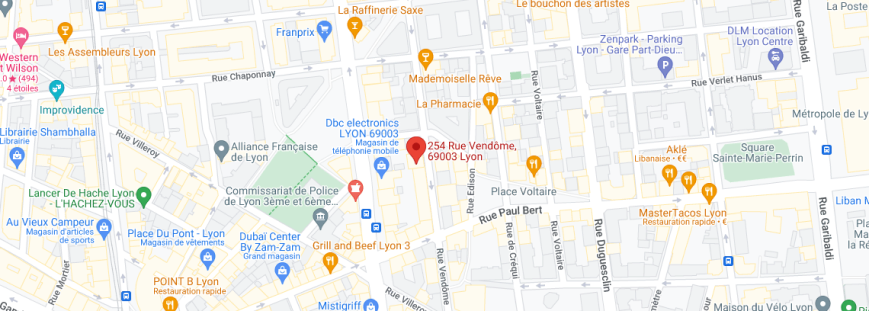
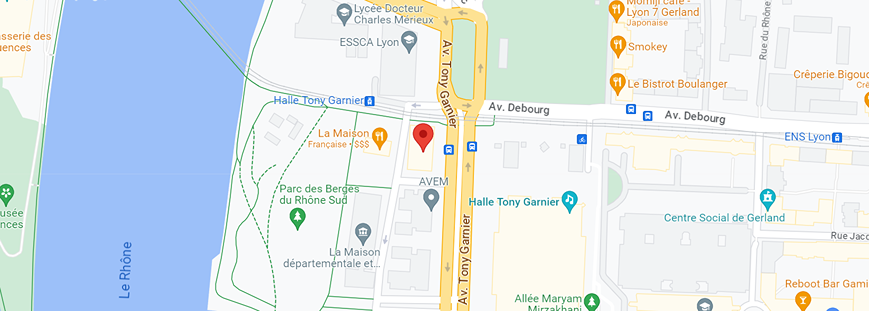
New article components / minor fixes (span -> div)

diff --git a/src/routes/acompagnement/index.tsx b/src/routes/acompagnement/index.tsx
@@ -4,6 +4,7 @@ import { type DocumentHead } from "@builder.io/qwik-city";
 import { ButtonTopPage } from "~/components/ui/buttons/ButtonTopPage";
 import { Banner } from "~/components/header/Banner";
 import { Article } from "~/components/Article";
+import { NewArticle } from "~/components/articles/NewArticle";
 import { Button } from "~/components/ui/buttons/Button";
 
 export default component$(() => {
@@ -12,127 +13,101 @@ export default component$(() => {
       <Banner
         content="  Vous rencontrez des défis en matière d'accessibilité numérique et souhaitez transformer ces enjeux en opportunités pour votre organisation ? Vous êtes au bon endroit ! Chez Inolib, nous mettons l'accent sur VOS besoins et VOS objectifs pour vous offrir un accompagnement personnalisé et dynamique."
         imageSrc="\images\temoignage-homme-header.png"
-        imageStyle="md:w-3/5 md:max-w-2xl"
+        imageStyle="md:w-3/5 md:max-w-xl"
         title="Acompagnement"
       />
 
-      <section class="text-[#0B3168]">
-        <Article
-          stylesTitle="md:mb-[2rem]"
-          stylesImage=" md:mr-[4rem] shadow mt-[8rem]"
-          stylesArticleGaucheFlex="mb-8 shadow bg-slate-100 text-[#0B3168] rounded md:flex-row "
-          imageSrc="/images/photoArticle.png"
-          title="Notre stratégie centrée sur vous :"
+      <section class="text-[#0B3168]  md:mx-[8rem] md:py-8">
+        <NewArticle
+          title="Notre stratégie centrée sur vous:"
+          styleTitle="mx-5 my-7 text-3xl md:mb-[1rem] md:mb-[2rem] font-semibold md:m-0"
         >
-          <span q:slot="check-box" class="flex flex-col md:ml-[5rem] md:mt-0">
-            <ul class="flex flex-col md:mt-20 md:justify-around ">
-              <li class="mb-[2.5rem] flex items-center">
-                <p class="ml-4">
-                  1⃣ Écoute et compréhension de vos besoins : Nous commençons par évaluer l'accessibilité de vos
-                  supports numériques pour identifier vos points forts et axes d'amélioration.
-                </p>
-              </li>
-              <li class="mb-[2.5rem] flex items-center">
-                <p class="ml-4">
-                  2⃣ Élaboration d'une stratégie d'accessibilité sur mesure : En adéquation avec vos objectifs, vos
-                  ressources internes, votre budget et les contraintes réglementaires, nous développons ensemble un plan
-                  d'action personnalisé.
-                </p>
-              </li>
-              <li class="mb-[2.5rem] flex items-center">
-                <p class="ml-4">
-                  3⃣ Formation et sensibilisation de vos équipes : Nous offrons des sessions de formation sur les bonnes
-                  pratiques et outils d'accessibilité numérique pour que vos équipes soient impliquées et autonomes.
-                </p>
-              </li>
-              <li class="mb-[2.5rem] flex items-center">
-                <p class="ml-4">
-                  4⃣ Mise en conformité et suivi des progrès : Nous vous accompagnons dans la mise en œuvre des
-                  recommandations, assurons un suivi régulier et garantissons que votre site web ou application respecte
-                  les normes d'accessibilité en vigueur.
-                </p>
-              </li>
-              <li class="flex items-center">
-                <p class="ml-4">
-                  5⃣ Support continu pour une accessibilité numérique durable : Nos experts restent à votre disposition
-                  pour vous assister et vous conseiller dans le maintien d'une accessibilité numérique optimale et
-                  durable.
-                </p>
-              </li>
-            </ul>
-          </span>
-        </Article>
+          <div q:slot="slot1" class="md:grid grid-cols-3 grid-rows-3 gap-y-5 gap-x-9 bg-slate-100 md:p-12 md:text-lg mb-6">
+            <img src="/images/dev.jpg" alt="" class="col-start-2 row-start-1 row-span-2 col-span-2 scale-75 rounded-lg" />
+            <p class="col-start-1 row-start-1">
+              🔹Écoute et compréhension de vos besoins : Nous commençons par évaluer l'accessibilité de vos supports
+               numériques pour identifier vos points forts et axes d'amélioration.
+            </p>
+            <p class="col-start-1 row-start-2">
+              🔹 Élaboration d'une stratégie d'accessibilité sur mesure : En adéquation avec vos objectifs,
+               vos ressources internes, votre budget et les contraintes réglementaires, nous développons
+              ensemble un plan d'action personnalisé.
+            </p>
+            <p class="col-start-1 row-start-3">
+              🔹 Formation et sensibilisation de vos équipes : Nous offrons des sessions de formation sur les bonnes
+               pratiques et outils d'accessibilité numérique pour que vos équipes soient impliquées et autonomes.
+            </p>
+            <p class="col-start-2 row-start-3">
+              🔹 Mise en conformité et suivi des progrès : Nous vous accompagnons dans la mise en œuvre des recommandations,
+               assurons un suivi régulier et garantissons que votre site web ou application respecte les normes d'accessibilité
+               en vigueur.
+            </p>
+            <p class="col-start-3 row-start-3">
+              🔹 Support continu pour une accessibilité numérique durable : Nos experts restent à votre disposition pour vous
+               assister et vous conseiller dans le maintien d'une accessibilité numérique optimale et durable.
+            </p>
+          </div>
+        </NewArticle>
 
-        <Article
-          stylesTitle="md:mb-[2rem]"
-          stylesImage=" ml-[4rem] shadow mt-[8rem]"
-          stylesArticleGaucheFlex="mb-8 -py-[-10rem] shadow bg-slate-100 text-[#0B3168] rounded md:flex-row-reverse "
-          imageSrc="/images/home4.png"
+        <NewArticle
           title="Nos services adaptés à votre réalité :"
+          styleTitle="mx-5 my-7 text-3xl md:mb-[1rem] md:mb-[2rem] font-semibold md:m-0"
         >
-          <span q:slot="check-box" class="mt-5 flex flex-col md:ml-[5rem] md:mt-0">
-            <ul class="flex flex-col md:mt-20 md:justify-around ">
-              <li class="mb-[2.5rem] flex items-center">
-                <p class="ml-4">
-                  🔹 Accompagnement stratégique : Sensibilisation aux enjeux de l'accessibilité, définition de votre
+          <div q:slot="slot1" class="md:grid grid-cols-3 grid-rows-3 gap-y-5 gap-x-9 bg-slate-100 md:p-12 md:text-lg mb-6">
+            <img src="/images/dev-1.jpg" alt="" class="col-start-1 row-start-1 row-span-2 col-span-2 scale-75 rounded-lg" />
+            <p class="col-start-3 row-start-1">
+              🔹 Accompagnement stratégique : Sensibilisation aux enjeux de l'accessibilité, définition de votre
                   politique d'accessibilité et analyse des cahiers des charges pour évaluer la prise en compte des
                   critères de l'accessibilité.
-                </p>
-              </li>
-              <li class="mb-[2.5rem] flex items-center">
-                <p class="ml-4">
-                  🔹 Accompagnement en mode projet : Clarification des besoins, détermination du périmètre de
+            </p>
+            <p class="col-start-3 row-start-2">
+            🔹 Accompagnement en mode projet : Clarification des besoins, détermination du périmètre de
                   l'accompagnement, aide à la rédaction des spécifications techniques et sélection des technologies
                   adaptées.
-                </p>
-              </li>
-              <li class="mb-[2.5rem] flex items-center">
-                <p class="ml-4">
-                  🔹 Audit et recommandations : Audit des storyboards, maquettes graphiques (UI/UX), gabarits statiques
+            </p>
+            <p class="col-start-3 row-start-3">
+            🔹 Audit et recommandations : Audit des storyboards, maquettes graphiques (UI/UX), gabarits statiques
                   (HTML, CSS, Javascript), support technique, rédaction de la déclaration d'accessibilité et conseils
                   pour la rédaction du schéma pluriannuel d'accessibilité obligatoire.
-                </p>
-              </li>
-              <li class="mb-[2.5rem] flex items-center">
-                <p class="ml-4">
-                  🔹 Suivi et maintien de l'accessibilité : Contrôles réguliers, corrections techniques, graphiques et
+            </p>
+            <p class="col-start-2 row-start-3">
+            🔹 Suivi et maintien de l'accessibilité : Contrôles réguliers, corrections techniques, graphiques et
                   éditoriales en collaboration avec vos équipes techniques.
-                </p>
-              </li>
-              <li class="flex items-center">
-                <p class="ml-4">
-                  🔹 Formules d'accompagnement : Forfait temps pour les modifications nécessaires ou accompagnement au
+            </p>
+            <p class="col-start-1 row-start-3">
+            🔹 Formules d'accompagnement : Forfait temps pour les modifications nécessaires ou accompagnement au
                   temps passé pour plus de flexibilité et d'adaptabilité dans votre projet d'accessibilité.
-                </p>
-              </li>
-            </ul>
-          </span>
-        </Article>
-        <Article
-          stylesContent="leading-7  mt-[2rem] mr-[5rem]"
-          stylesImage="shadow"
-          stylesTitle="md:mb-[5rem]"
+            </p>
+          </div>
+        </NewArticle>
+
+        <NewArticle
           title="Passez à l'action et boostez votre accessibilité numérique :"
           content="Cliquez ici pour profiter d'une première consultation offerte et discuter de vos besoins en accessibilité numérique avec l'un de nos experts (hyperlien page contact). Ne manquez pas cette occasion de vous démarquer sur le marché et d'élargir votre audience.
           Ensemble, nous transformerons vos défis en matière d'accessibilité numérique en opportunités de croissance et de développement pour votre organisation. Contactez-nous dès aujourd'hui (hyperlien page de contact) et découvrez comment Inolib peut vous aider à atteindre vos objectifs stratégiques et renforcer votre gestion de projet en matière d'accessibilité "
+          styleTitle="mx-5 my-7 text-3xl md:mb-[1rem] font-semibold md:m-0 md:mb-[5rem]"
+          styleArticle="md:flex-row flex flex-col mb-12"
+          styleArticleContent="mx-5 md:mx-0"
+          styleContent="leading-7 mr-[5rem] mb-14 w-full text-justify text-lg md:mb-0 md:px-4 md:pr-10 md:pl-0 md:text-left md:w-[45rem]"
+          styleImage="shadow flex flex-col sm:justify-center md:w-[35rem] mb-14 rounded-md"
           imageSrc="/images/homme-fauteuil.png"
-          typoImgQuote="bold"
-          stylesArticleGaucheFlex="md:flex-row md:-py-[-10rem]"
-        ></Article>
+        >
+        </NewArticle>
+
         <p class={`mx-5 md:mx-[20rem] leading-7`}>
           🔍 Prêt à aller plus loin ? Explorez nos services d'audit en <strong>accessibilité</strong> numérique et nos
           solutions de développement pour sites web, applications mobiles et logiciels sur-mesure (hyperliens vers les
           pages correspondantes) pour maximiser votre impact et votre performance en ligne. Faites de l'accessibilité
           numérique une priorité et un atout pour votre entreprise avec Inolib.
         </p>
-        <span class="flex justify-center mt-8 mb-2 md:mb-0">
+        <div class="flex justify-center mt-8 mb-2 md:mb-0">
           <Button
             href="/contact"
             color="blue"
             label="Demander un devis"
             styles="mt-[2rem] transition ease-in-out delay-150 hover:-translate-y-1  hover:scale-110 duration-300"
           />
-        </span>
+        </div>
 
         <div class="my-10 flex w-full justify-center">
           <ButtonTopPage />

diff --git a/src/components/articles/NewArticle.tsx b/src/components/articles/NewArticle.tsx
@@ -1,0 +1,59 @@
+import { component$, Slot } from "@builder.io/qwik";
+
+type NewArticleProps = {
+  style?: string;
+  styleTitle?: string;
+  styleArticle?: string;
+  styleArticleContent?: string;
+  styleContent?: string;
+  styleImage?: string;
+  styleImageArticle?: string;
+  styleImageText?: string;
+  styleImageQuote?: string;
+  title: string;
+  content: string;
+  imageSrc?: string;
+};
+
+export const NewArticle = component$((props: NewArticleProps) => {
+  const style = props.style !== undefined ? props.style : "";
+  const styleTitle = props.styleTitle !== undefined ? props.styleTitle : "";
+  const styleArticle = props.styleArticle !== undefined ? props.styleArticle : "";
+  const styleArticleContent = props.styleArticleContent !== undefined ? props.styleArticleContent : "";
+  const styleContent = props.styleContent !== undefined ? props.styleContent : "";
+  const styleImage = props.styleImage !== undefined ? props.styleImage : "";
+  const styleImageArticle = props.styleImageArticle !== undefined ? props.styleImageArticle : "";
+  const styleImageText = props.styleImageText !== undefined ? props.styleImageText : "";
+  const styleImageQuote = props.styleImageQuote !== undefined ? props.styleImageQuote : "";
+
+  return (
+    <section class={`${style}`}>
+    <h2 class={`${styleTitle}`}>{props.title}</h2>
+
+    <div class={`${styleArticle}`}>
+      <div class={`${styleArticleContent}`}>
+        <div>
+          <h3></h3>
+          <img/>
+          <p></p>
+        </div>
+        <div class={`${styleContent}`}>
+        {props.content}
+          <Slot name="slot1" />
+          <Slot name="slot2" />
+        </div>
+
+        <strong>
+          <p></p>
+          <Slot name="slot3" />
+        </strong>
+      </div>
+      <div class={`${styleImageArticle}`}>
+        <img class={`${styleImage}`} src={props.imageSrc}/>
+        <blockquote class={`${styleImageQuote}`}></blockquote>
+        <p class={`${styleImageText}`}></p>
+      </div>
+    </div>
+  </section>
+  );
+});

diff --git a/src/components/Article.tsx b/src/components/Article.tsx
@@ -38,14 +38,14 @@ export const Article = component$((props: ArticleProps) => {
       <h2 class={`mx-5 my-7 text-3xl md:mb-[1rem] ${stylesTitle} font-semibold md:m-0`}>{props.title}</h2>
 
       <div class={`flex flex-col ${stylesArticleGaucheFlex} md:pt-6`}>
-        <span class="mx-5 md:mx-0">
-          <span class={`flex ${articleTestimonyStyles} items-center`}>
+        <div class="mx-5 md:mx-0">
+          <div class={`flex ${articleTestimonyStyles} items-center`}>
             <h3 class={`mb-2 text-xl font-bold md:mb-0 ${stylesTestimony}`}>{props.testimony}</h3>
             <img class="px-2 md:px-3" src={props.imgSeparator} alt="" />
             <p class="md:text-lg">{props.titleQuote}</p>
-          </span>
+          </div>
           <div
-            class={`mb-14 w-full text-justify md:mb-0 md:w-[38rem] md:px-4 md:pr-10 md:pl-0 md:text-left ${stylesContent}`}
+            class={`mb-14 w-full text-justify md:mb-0 md:px-4 md:pr-10 md:pl-0 md:text-left ${stylesContent}`}
           >
             {props.content}
             <Slot name="date&category" />
@@ -56,8 +56,8 @@ export const Article = component$((props: ArticleProps) => {
             <p class="text-center md:w-[40rem]"></p>
             {props.contentQuote} <Slot name="content2" />
           </strong>
-        </span>
-        <div class={`flex flex-col md:w-[35rem]${stylesImgArticle}`}>
+        </div>
+        <div class={`flex flex-col md:w-[35rem] ${stylesImgArticle}`}>
           <img class={`h-auto ${stylesImage} max-w-full`} src={props.imageSrc} alt="" />
           <blockquote class={`max-w-content my-6 text-center ${imgQuoteSize}`}>{props.imageQuote}</blockquote>
           <p class={`max-w-content text-center ${styles} ${imgQuoteSize} md:mt-6`}>{props.imageText}</p>

diff --git a/src/components/footer/Contentinfo.tsx b/src/components/footer/Contentinfo.tsx
@@ -45,22 +45,22 @@ export const Contentinfo = component$(() => {
             aria-label="reseau sociaux d'Inolib"
           >
             <li>
-              <a href="https://www.facebook.com/people/Inolib/100075572787282/" aria-label="facebook">
+              <a href="https://www.facebook.com/people/Inolib/100075572787282/" target="_blank" aria-label="Facebook">
                 <img alt="facebook INOLIB" src="/images/logo-facebook-violet.svg" aria-label="facebook"></img>
               </a>
             </li>
             <li>
-              <a href="https://twitter.com/_inolib" aria-label="twitter">
+              <a href="https://twitter.com/_inolib" target="_blank" aria-label="twitter">
                 <img alt="twitter INOLIB" src="/images/logo-twiter.svg" aria-label="twitter"></img>
               </a>
             </li>
             <li>
-              <a href="https://www.linkedin.com/company/inolib/?originalSubdomain=fr" aria-label="linkedin">
+              <a href="https://www.linkedin.com/company/inolib/?originalSubdomain=fr" target="_blank" aria-label="linkedin">
                 <img alt="LinkedIn INOLIB" src="/images/logo-linkedin.svg" aria-label="Linkedin"></img>
               </a>
             </li>
             <li>
-              <a href="#" aria-label="instagram">
+              <a href="#" target="_blank" aria-label="instagram">
                 <img alt="instagram INOLIB" src="/images/logo-instagram.svg" aria-label="Instagram"></img>
               </a>
             </li>

diff --git a/src/components/cards/ContactCard.tsx b/src/components/cards/ContactCard.tsx
@@ -39,22 +39,22 @@ export const ContactCard = component$(() => {
           aria-label="liste des reseau sociaux d'Inolib"
         >
           <li>
-            <a href="https://www.facebook.com/people/Inolib/100075572787282/" aria-label="Facebook d'Inolib">
+            <a href="https://www.facebook.com/people/Inolib/100075572787282/" target="_blank" aria-label="Facebook d'Inolib">
               <img alt="" class="scale-50" src="\images\logo-facebook-violet.svg"></img>
             </a>
           </li>
           <li>
-            <a href="https://twitter.com/_inolib" aria-label="Twitter d'Inolib">
+            <a href="https://twitter.com/_inolib" target="_blank" aria-label="Twitter d'Inolib">
               <img alt="" class="scale-50" src="\images\logo-twiter.svg"></img>
             </a>
           </li>
           <li>
-            <a href="#" aria-label="https://www.linkedin.com/company/inolib/?originalSubdomain=fr">
+            <a href="https://www.linkedin.com/company/inolib/?originalSubdomain=fr" target="_blank" aria-label="Linkedin d'Inolib">
               <img alt="" class="scale-50" src="\images\logo-linkedin.svg"></img>
             </a>
           </li>
           <li>
-            <a href="#" aria-label="l'Instagram d'Inolib">
+            <a href="#" target="_blank" aria-label="Instagram d'Inolib">
               <img alt="" class="scale-50" src="\images\logo-instagram.svg"></img>
             </a>
           </li>

diff --git a/src/components/header/Navbar.tsx b/src/components/header/Navbar.tsx
@@ -21,12 +21,17 @@ export const Navbar = component$(() => {
           <img class="hidden h-32 w-auto my-[-2rem] lg:block z-10" src="/images/logoinolibvf.png" alt="Inolib" />
         </a>
         <div class="flex flex-col w-full pl-10">
-          <div class="flex justify-between items-center mr-4 sr-only md:whitespace-nowrap md:not-sr-only">
+          <div class="flex justify-end items-center mr-4 sr-only md:whitespace-nowrap md:not-sr-only">
             <FastAccessMenu />
-            <a href="tel:+33670865032" class="text-[#0B3168] mr-4 py-2">
+            <p class="text-[#0B3168] text-xs mr-2 py-2">
               {" "}
-              Contact : 06 47 21 86 69
-            </a>
+              contact@inolib.com
+            </p>
+            <p class="text-[#0B3168] text-xs mr-2 py-2"> / </p>
+            <p class="text-[#0B3168] text-xs mr-2 py-2">
+              {" "}
+              06 47 21 86 69
+            </p>
           </div>
           <div class="hidden md:block">
             <div class="flex justify-around items-center border-t-2">

diff --git a/src/components/header/BannerHome.tsx b/src/components/header/BannerHome.tsx
@@ -5,7 +5,7 @@ import { Button } from "~/components/ui/buttons/Button";
 export const BannerHome = component$(() => {
   return (
     <header class="overflow-x-auto">
-      <section class="h-[30rem] md:h-[44rem] bg-[url('/images/accueil-1.jpg')] bg-cover bg-center bg-no-repeat">
+      <section class="h-[30rem] md:h-[40rem] bg-[url('/images/accueil-1.jpg')] bg-cover bg-center bg-no-repeat">
         <span class=" flex items-center md:h-[25rem] pt-[4rem] md:ml-10">
           <img class="h-24 w-auto md:h-40" alt="" src="/images/logoinolibblancvf.png" />
           <h1 class="flex w-min flex-col border-l text-[185%] font-semibold text-white md:text-[300%] pl-[2rem]">

diff --git a/src/components/cards/LocalisationCard.tsx b/src/components/cards/LocalisationCard.tsx
@@ -10,9 +10,9 @@ export const LocalisationCard = component$(() => {
           <p class="text-center">
             INOLIB
             <br />
-            254 RUE VENDÔME
+            2 AVENUE TONY GARNIER
             <br />
-            69003 LYON
+            69007 LYON
           </p>
         </div>
         <img alt="" class="p-2" src="\images\map.png" />
